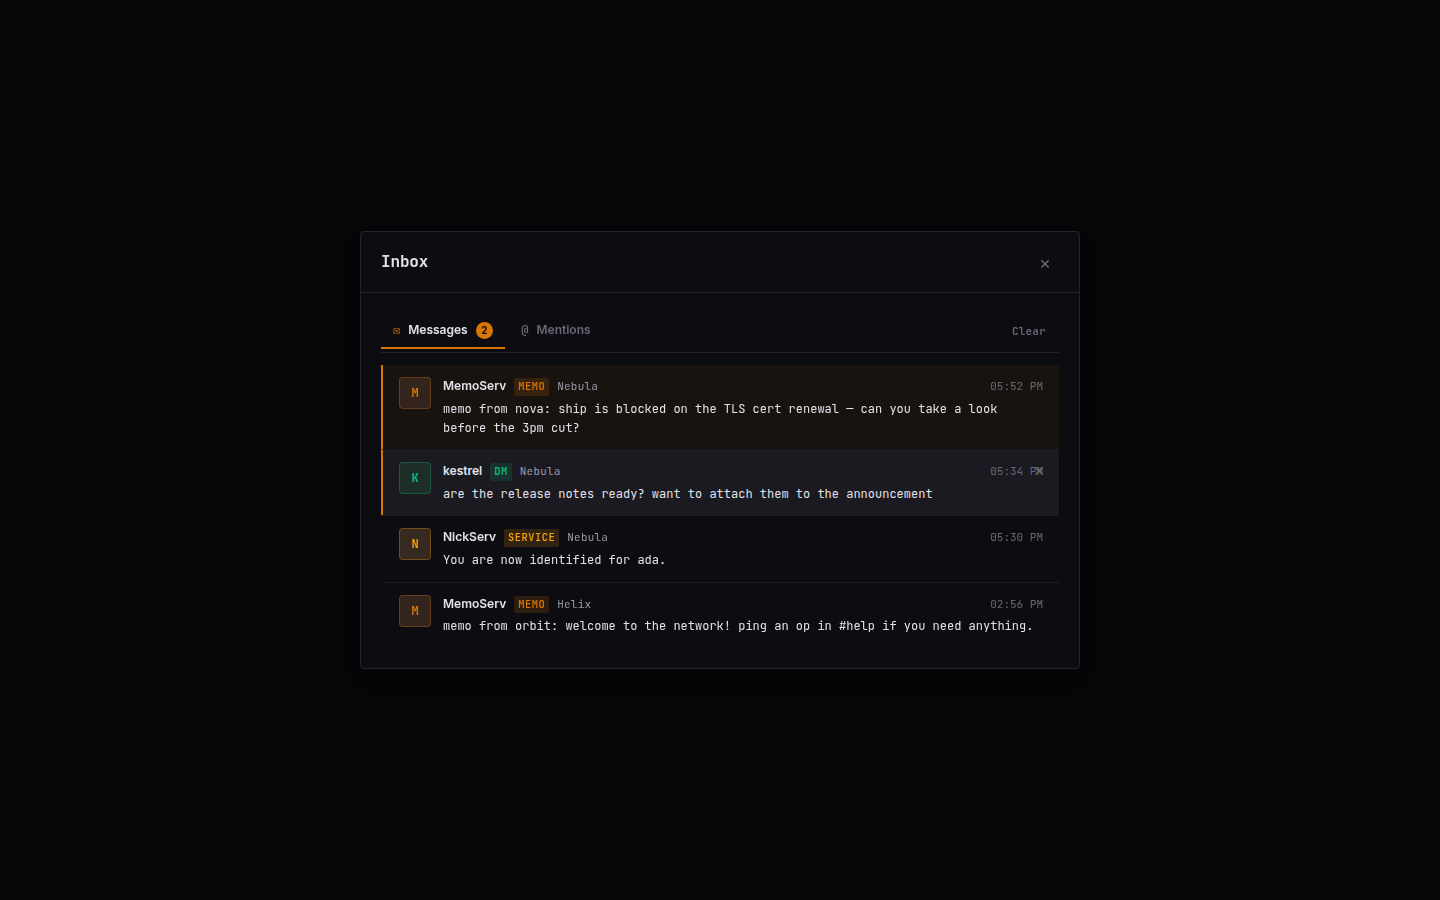
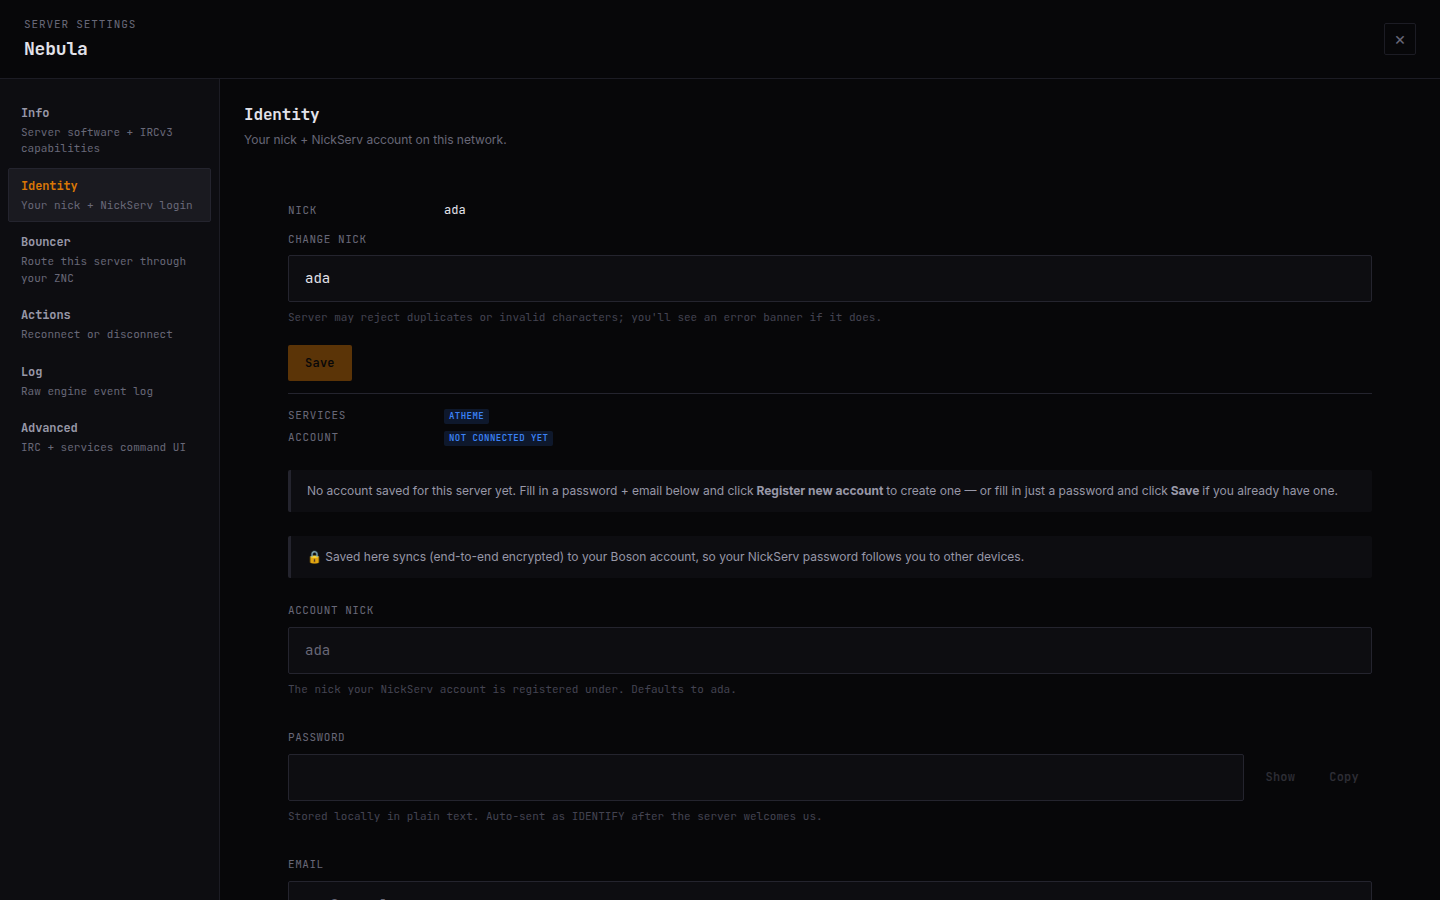
fix(website): replace Services feature shot with the NickServ identity panel
The old feat-services.png was the MemoServ inbox, which read as
notifications rather than services. Swap in a ServerSettings → Identity
shot showing the detected Atheme framework, the E2E-synced per-server
NickServ password, and auto-IDENTIFY. Add a `services` view to the
screenshot harness to generate it, and update the alt text.

diff --git a/client/src/renderer/src/shots.tsx b/client/src/renderer/src/shots.tsx
@@ -17,6 +17,7 @@ import { LoginScreen } from './screens/LoginScreen';
 import { UserSettings } from './screens/UserSettings/UserSettings';
 import { Inbox } from './screens/Inbox/Inbox';
 import type { Memo } from './modules/memos';
+import { ServerSettings } from './screens/ChatLayout/ServerSettings';
 
 // ---- Stub the Electron embed bridges so cards render rich content ----
 type W = typeof window & { bosonUnfurl?: unknown; bosonSpotify?: unknown };
@@ -252,8 +253,32 @@ const MEMOS: Memo[] = [
     text: 'memo from orbit: welcome to the network! ping an op in #help if you need anything.',
     timestamp: Date.now() - 3 * 3600_000, memoIndex: 2, bodyFetched: true } as Memo,
 ];
-function servicesView(): void {
+function inboxView(): void {
   render(<Inbox open memos={MEMOS} onClose={() => {}} />, app());
+}
+
+function servicesView(): void {
+  const serverInfo = {
+    serverName: 'irc.nebula.example', version: 'ngircd-27', network: 'Nebula',
+    enabledCaps: ['sasl', 'server-time', 'message-tags', 'chathistory', 'account-notify'],
+  };
+  render(
+    <ServerSettings
+      serverDisplayName="Nebula"
+      serverId="s1"
+      myNick="ada"
+      serverInfo={serverInfo as never}
+      serverLog={[]}
+      onClearServerLog={() => {}}
+      onClose={() => {}}
+      servicesFramework="atheme"
+      signedIn
+      onChangeNick={() => {}}
+      onTriggerAutoIdentify={() => {}}
+      onDetectAccountState={async () => 'identified'}
+    />,
+    app(),
+  );
 }
 
 const view = new URLSearchParams(location.search).get('view') ?? 'chat';
@@ -262,4 +287,5 @@ else if (view === 'directory') directoryView();
 else if (view === 'auth') authView();
 else if (view === 'settings') settingsView();
 else if (view === 'services') servicesView();
+else if (view === 'inbox') inboxView();
 else app().textContent = `unknown view: ${view}`;

diff --git a/website/src/pages/FeaturesPage.tsx b/website/src/pages/FeaturesPage.tsx
@@ -67,7 +67,7 @@ export function FeaturesPage() {
         title="NickServ, automated."
         blurb="Boson talks to network services for you — no /msg NickServ choreography."
         image="/screenshots/feat-services.png"
-        imageAlt="Inbox showing MemoServ memos, a DM, and a NickServ auto-identify notice"
+        imageAlt="Server Identity panel: detected Atheme services, an E2E-synced NickServ password, and auto-IDENTIFY"
         features={[
           { icon: <KeyIcon />, title: 'Auto-identify', body: 'Saved per-server credentials identify you to NickServ on connect. Atheme, Anope, and Ergo are detected automatically.' },
           { icon: <InboxIcon />, title: 'MemoServ inbox', body: 'Memos surface in an in-app inbox with unread tracking, instead of scrolling past service notices.' },
